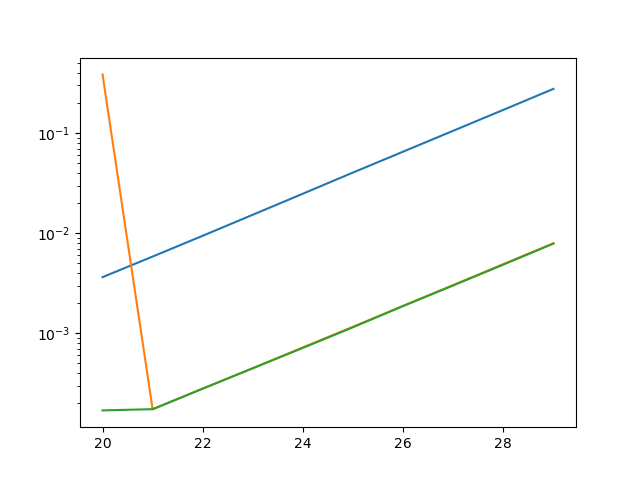
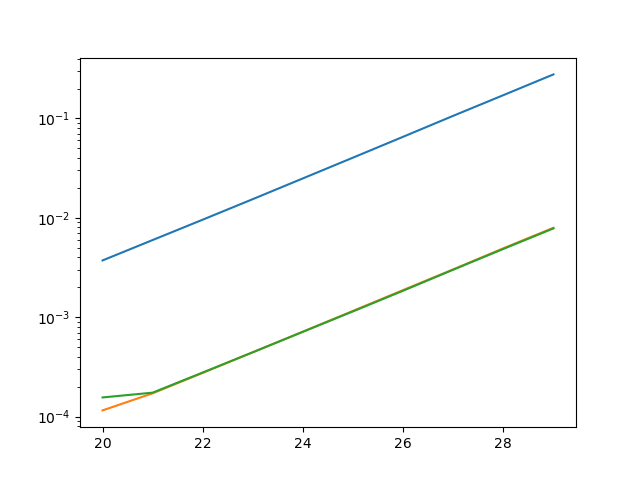
new png for n 30,...,45

diff --git a/MA4_2.py b/MA4_2.py
@@ -31,7 +31,7 @@ def main():
 	numbaTime = []
 	cppTime = []
 	fib_numba(2)
-	sweepingRange = range(20, 30)
+	sweepingRange = range(30, 45)
 	for i in sweepingRange:
 		start = pc()
 		fib(i)
@@ -60,7 +60,7 @@ def main():
 	plt.plot(sweepingRange, pyTime)  # Plot the chart 
 	plt.plot(sweepingRange, numbaTime)  # Plot the chart
 	plt.plot(sweepingRange, cppTime)  # Plot the chart
-	plt.savefig("time.png") 
+	plt.savefig("time_30-45.png") 
 	plt.show()
 
 
